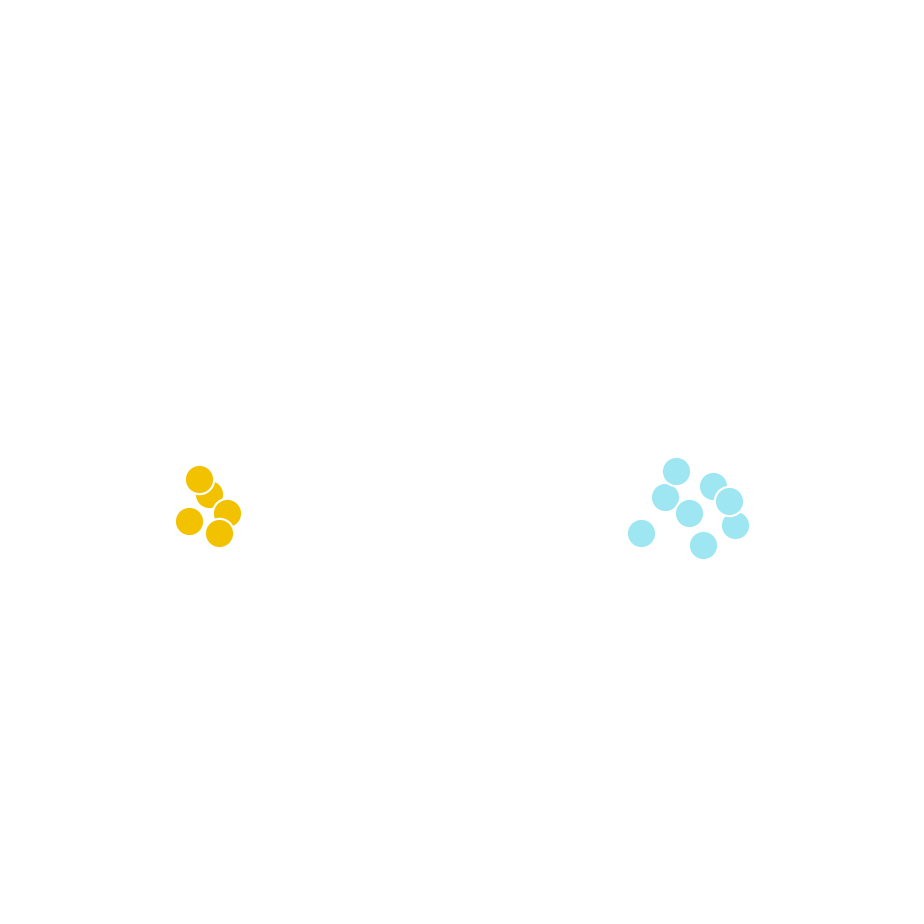
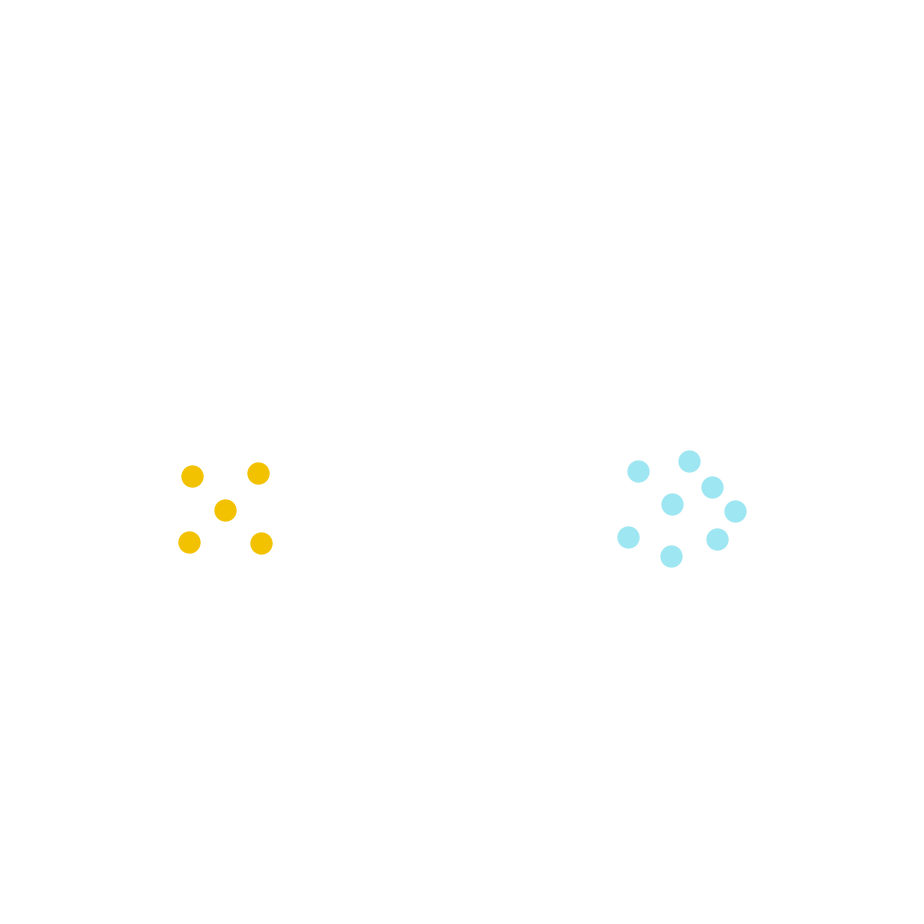
Refine demo sidebar and good example

Changed region(s): [[0.6667, 0.4848, 0.8182, 0.6061], [0.1818, 0.4848, 0.303, 0.6061], [0.2727, 0.4848, 0.303, 0.5455]]

diff --git a/admm_ss_sdp/python_admm/streamlit_app.py b/admm_ss_sdp/python_admm/streamlit_app.py
@@ -380,14 +380,23 @@ def main() -> None:
             st.caption(f"Maximum iterations are fixed at `{CG_MAX_ITER}`.")
             st.caption(f"Demo size limit: `n <= {CG_N_LIMIT}`.")
 
-        demo_name = st.selectbox("Demo example", list(DEMO_EXAMPLES))
-        st.caption(DEMO_EXAMPLES[demo_name]["description"])
         run_clicked = st.button("Run SS Algorithm", type="primary", use_container_width=True)
+        st.divider()
+
         demo_clicked = st.button("Demo", use_container_width=True)
+        if demo_clicked:
+            st.session_state["show_demo_examples"] = True
+
+        demo_name = next(iter(DEMO_EXAMPLES))
+        run_demo_clicked = False
+        if st.session_state.get("show_demo_examples", False):
+            demo_name = st.selectbox("Demo example", list(DEMO_EXAMPLES), key="demo_example")
+            st.caption(DEMO_EXAMPLES[demo_name]["description"])
+            run_demo_clicked = st.button("Run Selected Demo", use_container_width=True)
 
     demo_inputs = None
     demo_image_path = None
-    if demo_clicked:
+    if run_demo_clicked:
         try:
             x0, g, demo_inputs = load_demo_problem(demo_name)
             _, demo_image_path = demo_paths(demo_name)
@@ -399,7 +408,10 @@ def main() -> None:
             st.error(str(exc))
             return
     elif uploaded_file is None:
-        st.info("Upload a `.mat`, `.npz`, or `.csv` file.")
+        if st.session_state.get("show_demo_examples", False):
+            st.info("Choose a demo example in the sidebar, then click `Run Selected Demo`.")
+        else:
+            st.info("Upload a `.mat`, `.npz`, or `.csv` file, or click `Demo` in the sidebar.")
         return
     else:
         try:

diff --git a/scripts/create_examples.py b/scripts/create_examples.py
@@ -70,12 +70,13 @@ def save_example(stem: str, points: np.ndarray, labels: np.ndarray, title: str) 
         ax.set_xlim(x_center - half_span, x_center + half_span)
         ax.set_ylim(y_center - half_span, y_center + half_span)
 
+    marker_size = 64 if is_good_example else 92
     for label in sorted(set(labels)):
         cluster_points = points[labels == label]
         ax.scatter(
             cluster_points[:, 0],
             cluster_points[:, 1],
-            s=92,
+            s=marker_size,
             color=COLORS[int(label)],
             edgecolors="white",
             linewidths=0.7,
@@ -98,19 +99,19 @@ def main() -> None:
 
     good_points = np.array(
         [
-            [-3.30, -0.18],
-            [-3.05, 0.16],
-            [-2.82, -0.07],
-            [-3.18, 0.35],
-            [-2.92, -0.32],
-            [2.35, -0.32],
-            [2.65, 0.12],
-            [2.95, -0.08],
-            [3.25, 0.26],
-            [3.52, -0.22],
-            [2.78, 0.45],
-            [3.12, -0.48],
-            [3.45, 0.08],
+            [-3.42, -0.48],
+            [-3.38, 0.38],
+            [-2.95, -0.06],
+            [-2.52, 0.42],
+            [-2.48, -0.50],
+            [2.32, -0.42],
+            [2.45, 0.44],
+            [2.90, 0.02],
+            [3.12, 0.58],
+            [3.42, 0.24],
+            [3.48, -0.44],
+            [2.88, -0.66],
+            [3.72, -0.08],
         ],
         dtype=float,
     )
